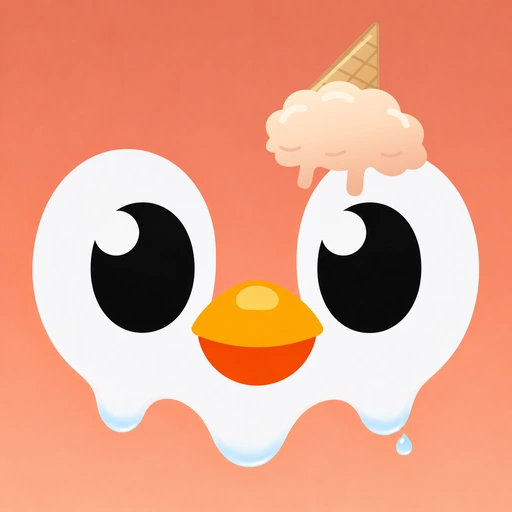
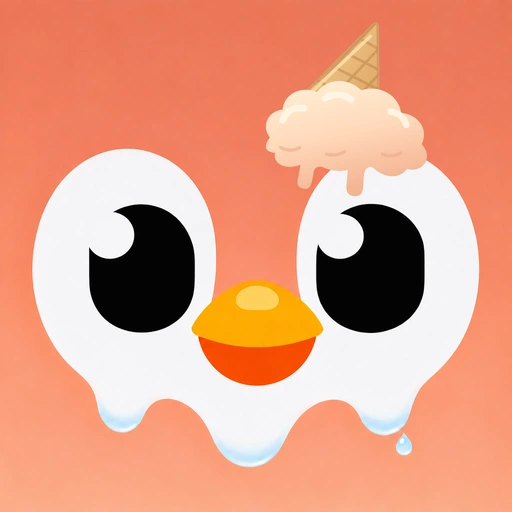
Reuse exact Classic eyes for Melting

diff --git a/index.html b/index.html
@@ -81,7 +81,7 @@
     ]
   }
   </script>
-<!-- Nivolo release: melting-normal-eyes-2026-11-10 -->
+<!-- Nivolo release: melting-exact-classic-eyes-2026-11-10 -->
 </head>
 <body class="short-home premium-home">
   <a class="skip-link" href="#main">Skip to content</a>
@@ -146,7 +146,7 @@
               <button class="look-choice" type="button" data-look="snowy" aria-pressed="false" aria-controls="look-preview" disabled><img src="assets/icons/snowy.png?v=20261109" width="160" height="160" alt="" loading="lazy" /><span>Snowy</span></button>
               <button class="look-choice" type="button" data-look="blaze" aria-pressed="false" aria-controls="look-preview" disabled><img src="assets/icons/blaze.png?v=20261109" width="160" height="160" alt="" loading="lazy" /><span>Blaze</span></button>
               <button class="look-choice" type="button" data-look="party" aria-pressed="false" aria-controls="look-preview" disabled><img src="assets/icons/party.png?v=20261109" width="160" height="160" alt="" loading="lazy" /><span>Party</span></button>
-              <button class="look-choice" type="button" data-look="melting" aria-pressed="false" aria-controls="look-preview" disabled><img src="assets/icons/melting.png?v=20261110-eyes" width="160" height="160" alt="" loading="lazy" /><span>Melting</span></button>
+              <button class="look-choice" type="button" data-look="melting" aria-pressed="false" aria-controls="look-preview" disabled><img src="assets/icons/melting.png?v=20261110-classic-eyes" width="160" height="160" alt="" loading="lazy" /><span>Melting</span></button>
               <button class="look-choice" type="button" data-look="ghost" aria-pressed="false" aria-controls="look-preview" disabled><img src="assets/icons/ghost.png?v=20261109" width="160" height="160" alt="" loading="lazy" /><span>Ghost</span></button>
               <button class="look-choice" type="button" data-look="gold" aria-pressed="false" aria-controls="look-preview" disabled><img src="assets/icons/gold.png?v=20261109" width="160" height="160" alt="" loading="lazy" /><span>Pearl</span></button>
               <button class="look-choice" type="button" data-look="glitch" aria-pressed="false" aria-controls="look-preview" disabled><img src="assets/icons/glitch.png?v=20261109" width="160" height="160" alt="" loading="lazy" /><span>Glitch</span></button>
@@ -731,7 +731,7 @@
   <script src="assets/founders-gallery.js?v=10" defer></script>
   <script src="assets/app-opals.js?v=b5840d248847" defer></script>
   <script src="assets/editorial-concept.js?v=7726da03d44a" defer></script>
-  <script src="assets/icon-pop.js?v=20261110-melting-eyes" defer></script>
+  <script src="assets/icon-pop.js?v=20261110-classic-eyes" defer></script>
   <script src="assets/phone-studio.js?v=2" defer></script>
   <script src="assets/impact.js?v=4" defer></script>
   <script type="module" src="assets/nivo.js?v=20261110-supporter-mascot"></script>

diff --git a/assets/icon-pop.js b/assets/icon-pop.js
@@ -93,7 +93,7 @@
   var NEW_ICONS = { "early-supporter": true, porcelain: true, jade: true, kintsugi: true, deepsea: true };
   function iconSrc(id, large) {
     var version = (id === "porcelain" || id === "jade") ? "20261110-signature"
-      : id === "melting" ? "20261110-eyes"
+      : id === "melting" ? "20261110-classic-eyes"
       : id === "focused" ? "20261110" : "20261109";
     return "assets/icons-3d/" + id + (large ? "-lg" : "") + (NEW_ICONS[id] ? ".jpg" : ".webp") + "?v=" + version;
   }

diff --git a/founders.html b/founders.html
@@ -11,7 +11,7 @@
   <link rel="stylesheet" href="styles.css?v=131" />
   <link rel="stylesheet" href="assets/founders-gallery.css?v=11" />
   <script src="assets/founders-gallery.js?v=10" defer></script>
-  <script src="assets/icon-pop.js?v=20261110-melting-eyes" defer></script>
+  <script src="assets/icon-pop.js?v=20261110-classic-eyes" defer></script>
 </head>
 <body class="founders-page">
   <a class="founder-skip" href="#paintings" data-founder-copy="skip">Skip to paintings</a>
